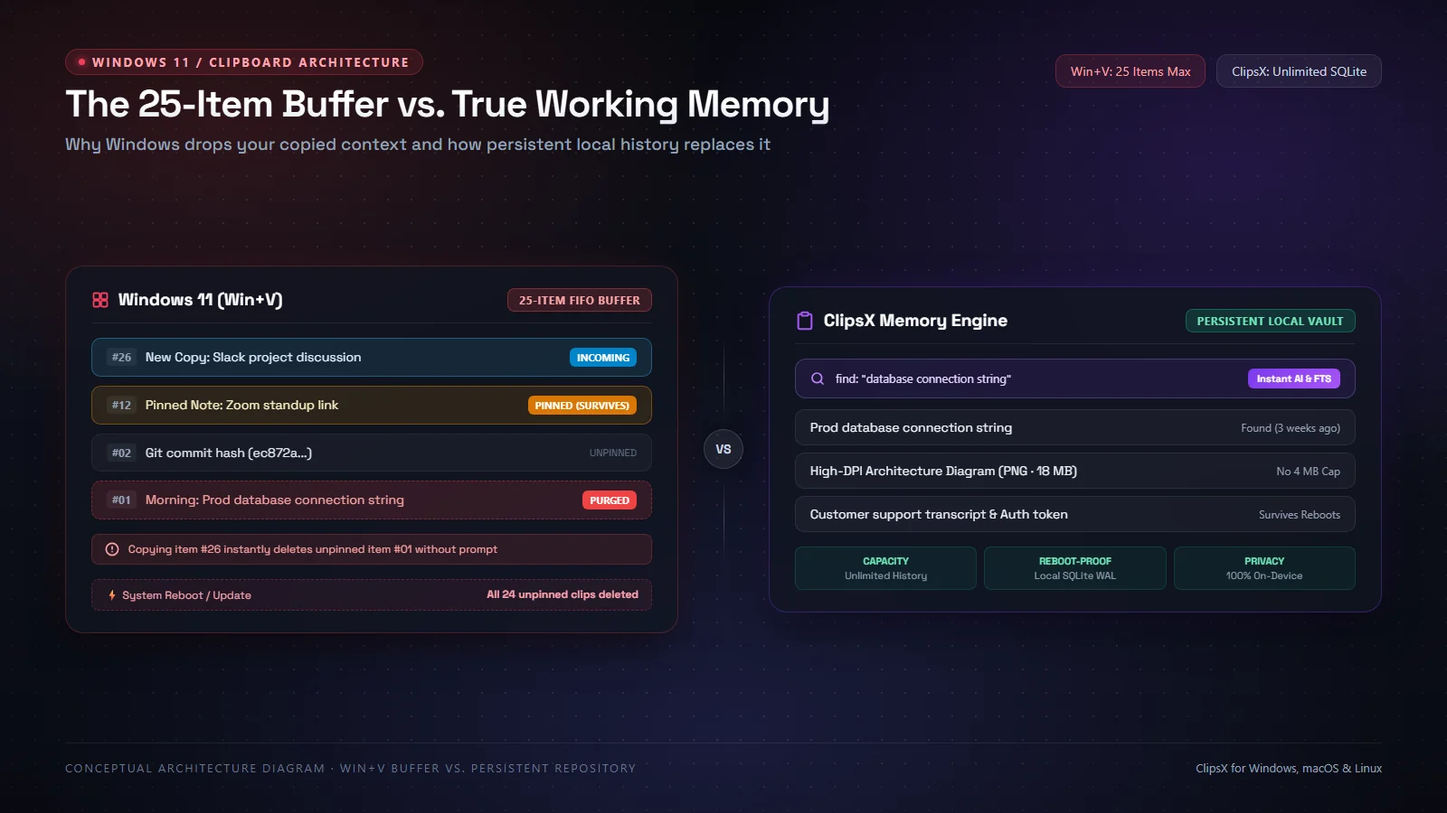
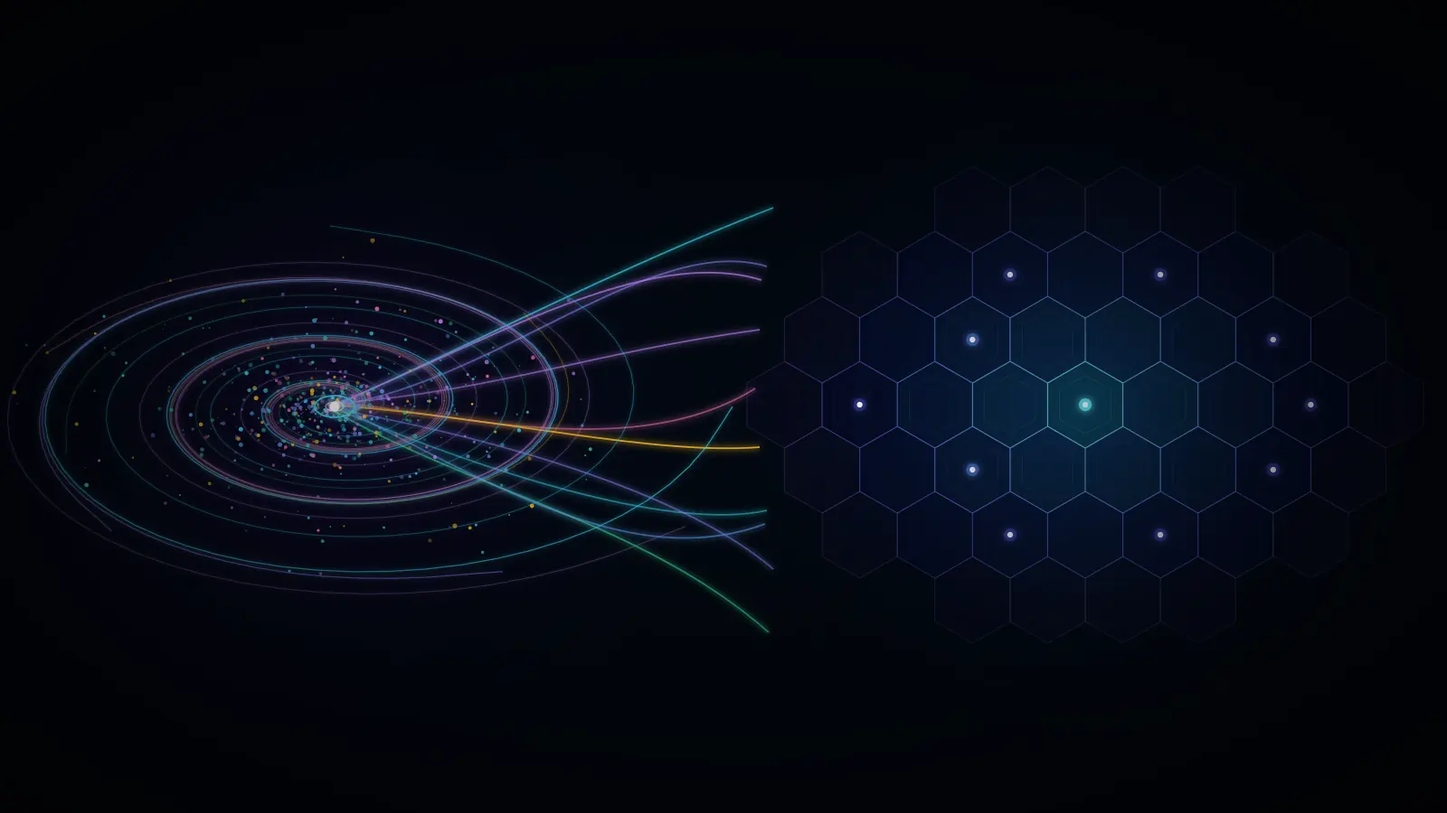
feat(blog): abstract hero illustration and show both hero + workflow on article page
- Replace UI-chrome infographic with abstract editorial SVG (vortex drain
  vs hex lattice, no text, dark-theme-agnostic particle data-flow aesthetic)
- Patch blog post page template so hero image always renders; BlogWorkflow
  step diagram renders below it when present (was an either/or)
- Remove overview from windowsClipboardLimit so its hero image shows
- Also land previous session's content edits from origin/main diverged commit:
  natural-language EN/JA polish in blog.ts, changelog.ts, product.ts

diff --git a/src/content/blog.ts b/src/content/blog.ts
@@ -48,7 +48,7 @@ const localFirst: BlogPost = {
     caption: l('Conceptual illustration: local history and optional services are different data paths.', '概念図：端末内の履歴と任意サービスは、別々のデータ経路です。') },
   sections: [
     { id: 'why-the-boundary-matters', title: l('Your clipboard is your working memory', 'クリップボードは作業中の記憶そのもの'), paragraphs: [
-      l('Every single day, your clipboard handles high-velocity secrets. You copy production database credentials, customer support conversations containing personal addresses, private API tokens, and sensitive internal Slack messages. Keeping this material easily retrievable accelerates your daily workflow, but it also creates a repository of high-value data. The question is not whether this history is useful—it is where that history lives, and who has access to it.', 'クリップボードには日々、極めて機密性の高い情報が集まります。DBの接続パスワード、顧客の問い合わせ、APIトークン、社内のプライベートなやり取り。これらを後から探せる利便性は作業効率を劇的に高めますが、同時に重要なデータ資産の集積場所にもなります。問題は履歴の有用性ではなく、それがどこに保存され、誰が閲覧できるのかという点です。'),
+      l('Every single day, your clipboard handles high-velocity secrets. You copy production database credentials, customer support conversations containing personal addresses, private API tokens, and sensitive internal Slack messages. Keeping this material easily retrievable accelerates your daily workflow, but it also creates a repository of high-value data. The question is not whether this history is useful, but where that history lives and who has access to it.', 'クリップボードには日々、極めて機密性の高い情報が集まります。DBの接続パスワード、顧客の問い合わせ、APIトークン、社内のプライベートなやり取り。これらを後から探せる利便性は作業効率を劇的に高めますが、同時に重要なデータ資産の集積場所にもなります。問題は履歴の有用性ではなく、それがどこに保存され、誰が閲覧できるのかという点です。'),
       l('In ClipsX, “local-first” is an architectural boundary, not a marketing slogan. Your clipboard history is owned and stored entirely on your local machine by the desktop application. You do not need to create an account, enter an email, or connect to a cloud service to capture, search, or reuse clips. The core workflow operates completely offline from day one, ensuring your working memory stays on your hardware.', 'ClipsX において「ローカルファースト」はマーケティングの標語ではなく、明確なデータ境界の設計です。クリップボード履歴はデスクトップアプリが端末内だけで保持・管理します。保存、検索、再利用にアカウント登録やメールアドレス、クラウド連携は一切不要です。最も重要な作業の記憶を、物理的に自分の端末内に留めます。'),
     ] },
     { id: 'what-stays-local', title: l('What stays strictly on your machine', '端末内に留まるデータとその境界'), paragraphs: [
@@ -397,7 +397,7 @@ const clipboardMcp: BlogPost = {
       title: l("Prompt for citations and draft an engineering handoff", "原文を引用させ、確認可能な引き継ぎメモを作成する"),
       paragraphs: [
         l("Instruct your assistant: “Search my clipboard history for the Orion support report and API note. Read both items, cite the direct quotes, and draft a concise engineering handoff outlining observed symptoms and unconfirmed hypotheses.”", "アシスタントに次のように指示します：「クリップボード履歴から Orion のサポート報告と API メモを検索して。両方の内容を読み込み、根拠となる箇所を直接引用した上で、観測された事象と未解決の仮説をまとめた簡潔な引き継ぎメモを作成して。」"),
-        l("Inspect your assistant's tool-call trace to confirm that it executed search_clips followed by read_clip. Compare the generated quotes directly against your original clipboard clips. Notice that while both notes reference 30-second thresholds, this coincidence alone does not establish causation—a critical distinction that a well-prompted assistant should highlight.", "アシスタントの実行ログを確認し、search_clips と read_clip が適切に呼び出されたことを確かめます。生成された引用文を元のクリップと直接突き合わせてみましょう。どちらのメモにも「30 秒」と記載されていますが、これは相関に過ぎず障害の根本原因を証明するものではありません。推測と客観的事実の境界を意識することが重要です。"),
+        l("Inspect your assistant's tool-call trace to confirm that it executed search_clips followed by read_clip. Compare the generated quotes directly against your original clipboard clips. Notice that while both notes reference 30-second thresholds, this coincidence alone does not establish causation, which is a critical distinction that a well-prompted assistant should highlight.", "アシスタントの実行ログを確認し、search_clips と read_clip が適切に呼び出されたことを確かめます。生成された引用文を元のクリップと直接突き合わせてみましょう。どちらのメモにも「30 秒」と記載されていますが、これは相関に過ぎず障害の根本原因を証明するものではありません。推測と客観的事実の境界を意識することが重要です。"),
       ],
     },
     {
@@ -488,7 +488,7 @@ const clipboardMcp: BlogPost = {
       id: "retrieval-troubleshooting",
       title: l("Troubleshooting retrieval failures and query misses", "トラブルシューティング：目的のクリップが見つからないとき"),
       paragraphs: [
-        l("Before debugging your assistant prompt, verify that the clip actually exists inside the ClipsX desktop application. The MCP server queries your local database—it cannot retrieve content that was excluded by privacy filters, purged past your retention limit, or copied before ClipsX was running.", "アシスタント側のプロンプトを疑う前に、まず ClipsX のアプリ画面上で該当クリップが存在しているか確認してください。MCP サーバーはローカルの保存済みデータベースを検索するため、除外ルールに引っかかったデータ、保持期限切れで消去されたデータ、ClipsX 起動前にコピーされたデータは取得できません。"),
+        l("Before debugging your assistant prompt, verify that the clip actually exists inside the ClipsX desktop application. The MCP server queries your local database directly; it cannot retrieve content that was excluded by privacy filters, purged past your retention limit, or copied before ClipsX was running.", "アシスタント側のプロンプトを疑う前に、まず ClipsX のアプリ画面上で該当クリップが存在しているか確認してください。MCP サーバーはローカルの保存済みデータベースを検索するため、除外ルールに引っかかったデータ、保持期限切れで消去されたデータ、ClipsX 起動前にコピーされたデータは取得できません。"),
       ],
       links: [
         {
@@ -530,38 +530,17 @@ const windowsClipboardLimit: BlogPost = {
   date: "2026-11-10",
   topic: l("Windows workflows", "Windows 活用"),
   title: l("Windows 11 clipboard history: the 25-item limit and how to overcome it", "Windows 11 クリップボード履歴の「25件制限」：消える原因と容量不足の解決策"),
-  description: l("Windows 11 clipboard history caps out at 25 items, ignores clips over 4 MB, and purges unpinned entries on reboot—with no registry setting to raise the ceiling. Here is how the limit works and what to use when you outgrow it.", "Windows 11 のクリップボード履歴は最大25件で頭打ちになり、4MB超のデータは保存されず、再起動で未ピン留めの項目がすべて消去されます。レジストリや設定で上限を増やす裏技もありません。その仕組みと、制限を気にせず作業するための現実的な解決策を解説します。"),
+  description: l("Windows 11 clipboard history caps out at 25 items, ignores clips over 4 MB, and purges unpinned entries on reboot, with no registry setting to raise the ceiling. Here is how the limit works and what to use when you outgrow it.", "Windows 11 のクリップボード履歴は最大25件で頭打ちになり、4MB超のデータは保存されず、再起動で未ピン留めの項目がすべて消去されます。レジストリや設定で上限を増やす裏技もありません。その仕組みと、制限を気にせず作業するための現実的な解決策を解説します。"),
   takeaway: l("Win+V is a reliable scratchpad for quick copy-pasting, but the 25-item FIFO queue silently drops older clips. When your clipboard serves as an extension of your memory, you need persistent history that survives restarts and offers instant search.", "Win+V は一時的なメモとしては手軽ですが、25件を超えると古いコピーが予告なく押し出されて消えます。過去のコードや参考資料を確実に記憶させておくなら、再起動で消えず、検索も可能な永続的クリップボード管理が必要です。"),
   image: { src: "/images/blog/windows-clipboard-limit.webp", width: 1600, height: 900,
     alt: l("Conceptual architecture diagram comparing the Windows 11 25-item FIFO clipboard buffer against the ClipsX persistent local vault.", "Windows 11 の 25 件 FIFO クリップボードバッファと、ClipsX の永続的ローカル保管庫を対比した概念アーキテクチャ図。"),
     caption: l("Architecture comparison: Windows 11 built-in clipboard history purges older unpinned clips via a 25-item FIFO queue, whereas ClipsX stores complete history locally.", "アーキテクチャ比較：Windows 11 標準のクリップボード履歴は 25 件の FIFO キューで古い項目を自動消去しますが、ClipsX は全履歴をローカルに永続保持します。") },
-  overview: {
-    caption: l("The lifecycle of a clip in Windows 11 vs. true persistent history", "Windows 11 クリップボード履歴のライフサイクルと消滅の仕組み"),
-    steps: [
-      {
-        icon: "clipboard",
-        title: l("Copy to 25-slot buffer", "25件の枠に一時保存"),
-        detail: l("Windows captures small text and images into volatile RAM.", "テキストや小さな画像を揮発性メモリへ一時的に記録。"),
-      },
-      {
-        icon: "check",
-        title: l("Silent FIFO eviction", "26件目で最古が自動削除"),
-        detail: l("Every 26th copy quietly deletes the oldest unpinned clip to free space.", "新しいコピーが入ると、ピン留めしていない古いクリップが警告なく消滅。"),
-      },
-      {
-        icon: "search",
-        title: l("Reboot wipeout", "再起動で一括消去"),
-        detail: l("Restarting or updating Windows clears every unpinned item permanently.", "PC の再起動や Windows Update で、ピン留め以外の全履歴が消滅。"),
-      },
-    ],
-    note: l("Pinned items survive reboots, but cannot be categorized, filtered, or searched semantically. Pinned clips also vanish if clipboard history is toggled off.", "ピン留めした項目は再起動後も残りますが、キーワード検索や意味検索はできず、履歴機能を一度オフにするとピン留めも全消去されます。"),
-  },
   sections: [
     {
       id: "the-moment-it-bites",
       title: l("The moment you realize your copied data is gone", "「コピーしたはずの重要データがない」その瞬間の原因"),
       paragraphs: [
-        l("It starts with a familiar moment of frustration: you copied a critical SQL query, API response, or server config snippet early this morning. A few hours later—after copying dozens of error logs, Slack messages, and documentation links—you reboot your workstation. You hit Win+V expecting to paste that morning snippet, only to find an empty list or just the few clips you took after restarting.", "「さっきコピーしたはずの重要な SQL クエリや API のレスポンスが見当たらない」――そんな経験はないでしょうか。朝のうちにコピーしたテキストも、その後に何十件ものログや Slack のメッセージ、ドキュメントの URL をコピーし、PC を再起動してから Win+V を押すと、きれいに消え去っています。"),
+        l("It starts with a familiar moment of frustration: you copied a critical SQL query, API response, or server config snippet early this morning. A few hours later, after copying dozens of error logs, Slack messages, and documentation links, you reboot your workstation. You hit Win+V expecting to paste that morning snippet, only to find an empty list or just the few clips you took after restarting.", "「さっきコピーしたはずの重要な SQL クエリや API のレスポンスが見当たらない」という経験はないでしょうか。朝のうちにコピーしたテキストも、その後に何十件ものログや Slack のメッセージ、ドキュメントの URL をコピーし、PC を再起動してから Win+V を押すと、きれいに消え去っています。"),
         l("This isn't a glitch, and you didn't accidentally toggle a hidden switch. This is Windows 11 clipboard history functioning precisely as Microsoft architected it. The native feature operates on a rigid FIFO (First-In, First-Out) rotation buffer with severe storage ceilings. Once you understand these boundaries, you can stop losing work and decide whether the default scratchpad suits your workflow or if you require dedicated clipboard memory.", "これは Windows のバグでも、誤って設定をオフにしたわけでもありません。Microsoft の設計どおりに動いている結果です。Windows 11 標準のクリップボード履歴は、厳格な「先入れ先出し（FIFO）」バッファと厳しい容量制限のもとで動作しています。その仕様を正しく理解すれば、大事なコピーを二度と失わずに済むようになり、標準機能のままで十分か、専用のツールを導入すべきかを明確に判断できます。"),
       ],
     },
@@ -600,7 +579,7 @@ const windowsClipboardLimit: BlogPost = {
       id: "where-pinning-falls-short",
       title: l("Why manual pinning fails for real-world workflows", "ピン留めだけでは実務の壁を越えられない理由"),
       paragraphs: [
-        l("Pinning works well when you know with 100% certainty that a piece of information will matter in the future. In practice, you rarely know a snippet was essential until hours or days later—when a teammate asks for that specific link, when a build breaks with the same stack trace, or when you need exact wording from an earlier draft.", "ピン留めが機能するのは、「後で確実に使う」とコピーした瞬間に分かっている一部の情報だけです。しかし実際の業務では、コピーした情報の重要性に気づくのは大抵数時間後や数日後です。同僚にリンクを再送する際や、同じビルドエラーが再発した際、以前の下書きの言い回しが必要になったときには、すでに 25 件の枠から押し出されています。"),
+        l("Pinning works well when you know with 100% certainty that a piece of information will matter in the future. In practice, you rarely know a snippet was essential until hours or days later: when a teammate asks for that specific link, when a build breaks with the same stack trace, or when you need exact wording from an earlier draft.", "ピン留めが機能するのは、「後で確実に使う」とコピーした瞬間に分かっている一部の情報だけです。しかし実際の業務では、コピーした情報の重要性に気づくのは大抵数時間後や数日後です。同僚にリンクを再送する際や、同じビルドエラーが再発した際、以前の下書きの言い回しが必要になったときには、すでに 25 件の枠から押し出されています。"),
         l("Furthermore, the native Win+V interface does not scale. It lacks text search, tags, and date filtering; finding a pinned item requires slow, manual scrolling through an unindexed visual feed. If you accidentally toggle clipboard history off in Settings, every pinned item is permanently erased with zero recovery option.", "さらに、Win+V の画面は大量の項目を扱うように作られていません。キーワード検索も、タグ付けも、日付による絞り込みも存在せず、目的の項目を目視でスクロールして探す必要があります。また、設定でクリップボード履歴を一度オフにしてしまうと、ピン留めしていた項目も含めてすべて復元不能で消滅します。"),
         l("Cloud clipboard sync also presents major compliance hurdles. While Windows allows cross-device clipboard sync via a personal Microsoft Account, enterprise IT policies frequently disable cloud clipboard synchronization to prevent sensitive credentials and PII from syncing across external servers.", "Microsoft アカウントによるクラウド同期にも注意が必要です。複数デバイス間での同期機能は用意されていますが、データが Microsoft のクラウドサーバーを経由するため、企業のセキュリティポリシーやプライバシー要件によって制限されているケースが少なくありません。"),
       ],
@@ -609,8 +588,8 @@ const windowsClipboardLimit: BlogPost = {
       id: "when-you-need-more",
       title: l("Upgrading from a volatile buffer to durable working memory", "一時バッファから、永続的な「作業の記憶」へアップグレードする"),
       paragraphs: [
-        l("The built-in Windows clipboard is adequate as a temporary buffer for immediate copy-pasting across adjacent windows. It breaks down the moment your clipboard becomes an archive of your daily work—when losing earlier copies forces you to re-run queries, re-read documentation, or ask colleagues for files you already had.", "Windows 標準のクリップボードは、直前のデータを隣のウィンドウへ移すだけの一時バッファとしては十分です。しかし、クリップボードが日々の作業の文脈や記憶の役割を持ち始めた途端に破綻します。過去のコピーが消えるたびに、SQL を再実行したり、ドキュメントを探し直したり、一度手元にあった資料を他人に聞き直す無駄が発生します。"),
-        l("This is where a dedicated local-first clipboard manager becomes indispensable, and why we created ClipsX. Built with an encrypted local SQLite engine, ClipsX retains your complete clipboard history—code snippets, high-resolution screenshots, files, and formatted text—without arbitrary 25-item limits. When you forget exact words, its on-device Meaning Search uses local AI models to retrieve clips by conceptual meaning without cloud leakage. It is 100% free and open-source for Windows, macOS, and Linux.", "そこで真価を発揮するのが、専用のローカルファースト型クリップボードマネージャーであり、ClipsX が生まれた理由です。ClipsX は暗号化されたローカル SQLite を備え、25件の制限なしにコード、高解像度画像、ファイル、テキストを端末内に永続保存します。正確な文言を忘れても、端末内のローカル AI を用いた「意味検索（Meaning Search）」で内容から瞬時に発掘可能。外部送信のない安全設計で、Windows、macOS、Linux に完全対応したオープンソースソフトウェアです。"),
+        l("The built-in Windows clipboard is adequate as a temporary buffer for immediate copy-pasting across adjacent windows. It breaks down the moment your clipboard becomes an archive of your daily work, especially when losing earlier copies forces you to re-run queries, re-read documentation, or ask colleagues for files you already had.", "Windows 標準のクリップボードは、直前のデータを隣のウィンドウへ移すだけの一時バッファとしては十分です。しかし、クリップボードが日々の作業の文脈や記憶の役割を持ち始めた途端に破綻します。過去のコピーが消えるたびに、SQL を再実行したり、ドキュメントを探し直したり、一度手元にあった資料を他人に聞き直す無駄が発生します。"),
+        l("This is where a dedicated local-first clipboard manager becomes indispensable, and why we created ClipsX. Built with an encrypted local SQLite engine, ClipsX retains your complete clipboard history (including code snippets, high-resolution screenshots, files, and formatted text) without arbitrary 25-item limits. When you forget exact words, its on-device Meaning Search uses local AI models to retrieve clips by conceptual meaning without cloud leakage. It is 100% free and open-source for Windows, macOS, and Linux.", "そこで真価を発揮するのが、専用のローカルファースト型クリップボードマネージャーであり、ClipsX が生まれた理由です。ClipsX は暗号化されたローカル SQLite を備え、25件の制限なしにコード、高解像度画像、ファイル、テキストを端末内に永続保存します。正確な文言を忘れても、端末内のローカル AI を用いた「意味検索（Meaning Search）」で内容から瞬時に発掘可能。外部送信のない安全設計で、Windows、macOS、Linux に完全対応したオープンソースソフトウェアです。"),
       ],
       table: {
         caption: l("Feature comparison: Windows 11 Win+V vs. ClipsX", "機能比較：Windows 11 標準（Win+V） vs ClipsX"),

diff --git a/src/content/product.ts b/src/content/product.ts
@@ -1,6 +1,6 @@
 export const productContent = {
 en: {
-metaTitle: "Product — ClipsX capabilities and privacy", description: "A practical guide to supported clipboard content, search, reuse, extensions, and local data.",
+metaTitle: "Product: ClipsX capabilities and privacy", description: "A practical guide to supported clipboard content, search, reuse, extensions, and local data.",
 eyebrow: "CLIPSX / PRODUCT GUIDE", title: "Know what your clipboard can do.", intro: "What ClipsX keeps, how you find it again, and what stays on your device.",
 get: "Get ClipsX", docs: "Getting started", contents: "On this page",
 nav: ["Content & formats", "Search & organization", "Preview & reuse", "Extensions", "Privacy & sync", "Common questions"],
@@ -20,7 +20,7 @@ questions: [["Do I need an account?", "No. The core local clipboard experience d
 closeTitle: "Ready to set up ClipsX?", closeBody: "Check the available desktop builds, then follow the getting started guide."
 },
 ja: {
-metaTitle: "製品 — ClipsXの機能とプライバシー", description: "対応コンテンツ、検索、再利用、拡張機能、ローカルデータについての実用ガイド。",
+metaTitle: "製品: ClipsXの機能とプライバシー", description: "対応コンテンツ、検索、再利用、拡張機能、ローカルデータについての実用ガイド。",
 eyebrow: "CLIPSX / 製品ガイド", title: "クリップボードで、できること。", intro: "何を保存できるのか。どう探し直せるのか。どのデータが端末に残るのか。",
 get: "ClipsXを入手", docs: "スタートガイド", contents: "このページの内容",
 nav: ["コンテンツと形式", "検索と整理", "確認と再利用", "拡張機能", "プライバシーと同期", "よくある質問"],

diff --git a/src/app/[locale]/blog/[slug]/page.tsx b/src/app/[locale]/blog/[slug]/page.tsx
@@ -44,11 +44,12 @@ export default async function Article({ params }: { params: Promise<{ locale: Lo
         {locale === 'ja' ? '執筆：ClipsX' : 'By ClipsX'}
         {post.modifiedDate && <> · {locale === 'ja' ? '更新：' : 'Updated '}<BlogDate date={post.modifiedDate} locale={locale} /></>}
       </p>
-      {post.overview ? <BlogWorkflow flow={post.overview} locale={locale} /> : <figure className="mt-8">
+      <figure className="mt-8">
         <Image src={post.image.src} alt={pick(post.image.alt, locale)} width={post.image.width} height={post.image.height}
           sizes="(min-width: 800px) 768px, 100vw" className="h-auto w-full rounded-2xl border border-(--ui-border)" />
         <figcaption className="mt-3 text-xs leading-6 text-(--ui-text-muted)">{pick(post.image.caption, locale)}</figcaption>
-      </figure>}
+      </figure>
+      {post.overview && <BlogWorkflow flow={post.overview} locale={locale} />}
       <aside aria-labelledby="takeaway" className="mt-8 rounded-xl border border-(--ui-border) bg-(--ui-accent-subtle) p-5 sm:p-6">
         <h2 id="takeaway" className="eyebrow">{locale === 'ja' ? 'この記事のポイント' : 'The takeaway'}</h2>
         <p className="mt-3 leading-8">{pick(post.takeaway, locale)}</p>

diff --git a/src/content/changelog.ts b/src/content/changelog.ts
@@ -7,7 +7,7 @@ const firstRelease = {
   url: 'https://github.com/azure06/clipsx/releases/tag/v0.1.0',
   title: l('The first public release.', '初めての公開リリース。'),
   description: l(
-    'Your clipboard history, local search, and programmable workflows—available on Windows, macOS, and Linux/X11.',
+    'Your clipboard history, local search, and programmable workflows across Windows, macOS, and Linux/X11.',
     'クリップボード履歴、ローカル検索、拡張可能なワークフローを Windows、macOS、Linux/X11 で利用できます。',
   ),
   highlights: [
